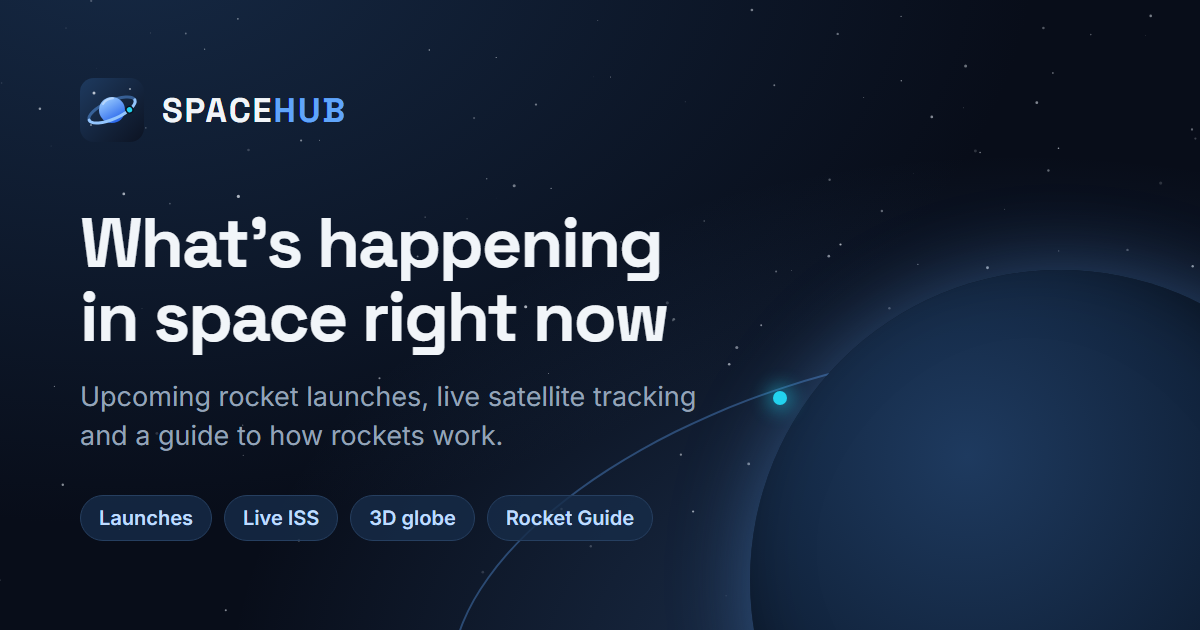
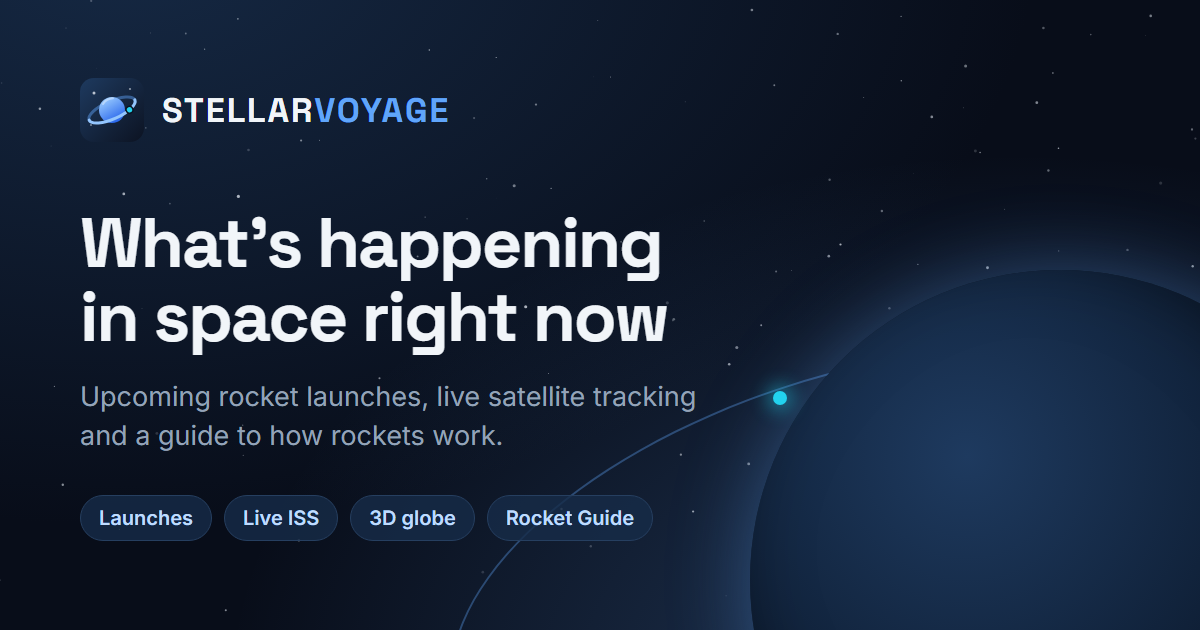
Rename SpaceHub to StellarVoyage
- New name everywhere: sidebar and phone bar (STELLAR + blue VOYAGE),
  footers, page titles, meta and share tags, app manifest, calendar
  events, README and CLAUDE.md
- Share image regenerated with the new name
- Site address in the share tags is now ansil28.github.io/StellarVoyage
- Saved data moves from the old "spacehub-" keys to "stellarvoyage-",
  and the service worker deletes the old caches
- Smaller brand text (and the hide-sidebar arrow moved down) so the
  longer name fits the sidebar

Changed region(s): [[0.1542, 0.1508, 0.37, 0.2111]]

diff --git a/app.js b/app.js
@@ -31,8 +31,26 @@ let countdownInterval = null;
 const API_URL =
   "https://ll.thespacedevs.com/2.3.0/launches/upcoming/?limit=50";
 
+// The site used to be called SpaceHub: move anything saved under the
+// old names to the new ones, so visitors keep their saved data
+try {
+  for (const key of Object.keys(localStorage)) {
+    if (key.startsWith("spacehub-")) {
+      const newKey = key.replace(/^spacehub-/, "stellarvoyage-");
+
+      if (localStorage.getItem(newKey) === null) {
+        localStorage.setItem(newKey, localStorage.getItem(key));
+      }
+
+      localStorage.removeItem(key);
+    }
+  }
+} catch {
+  // Storage may be blocked; nothing to move
+}
+
 // The free API allows about 15 requests per hour, so responses are cached
-const CACHE_KEY = "spacehub-launches-cache";
+const CACHE_KEY = "stellarvoyage-launches-cache";
 const CACHE_DURATION_MS = 15 * 60 * 1000;
 
 // COUNTDOWN
@@ -149,7 +167,7 @@ document.addEventListener("keydown", (event) => {
 const appLayout = document.querySelector(".app-layout");
 const sidebarToggle = document.querySelector("#sidebar-toggle");
 const mainContent = document.querySelector(".main-content");
-const SIDEBAR_STORAGE_KEY = "spacehub-sidebar-collapsed";
+const SIDEBAR_STORAGE_KEY = "stellarvoyage-sidebar-collapsed";
 
 function setSidebarCollapsed(isCollapsed, save = true) {
   appLayout.classList.toggle("sidebar-collapsed", isCollapsed);
@@ -210,19 +228,19 @@ function handleRoute() {
   if (view === "intelligence") {
     showView("intelligence");
     openSpaceIntelligence();
-    document.title = "Space Intelligence · SpaceHub";
+    document.title = "Space Intelligence · StellarVoyage";
     return;
   }
 
   if (view === "launches") {
     showView("launches");
-    document.title = "Launches · SpaceHub";
+    document.title = "Launches · StellarVoyage";
     return;
   }
 
   // Empty, #home or unknown addresses open the Overview
   showView("overview");
-  document.title = "SpaceHub";
+  document.title = "StellarVoyage";
 }
 
 function showView(view) {
@@ -886,7 +904,7 @@ function getLaunchCalendarEvent(launch) {
     launch.launch_service_provider?.name &&
       `Provider: ${launch.launch_service_provider.name}`,
     launch.mission?.description,
-    "Launch times often change. Check SpaceHub for the latest schedule."
+    "Launch times often change. Check StellarVoyage for the latest schedule."
   ].filter(Boolean);
 
   return {
@@ -910,11 +928,11 @@ function buildLaunchCalendarFile(launch) {
   const lines = [
     "BEGIN:VCALENDAR",
     "VERSION:2.0",
-    "PRODID:-//SpaceHub//Launch Calendar//EN",
+    "PRODID:-//StellarVoyage//Launch Calendar//EN",
     "CALSCALE:GREGORIAN",
     "METHOD:PUBLISH",
     "BEGIN:VEVENT",
-    `UID:${launch.id || formatCalendarDate(start)}@spacehub`,
+    `UID:${launch.id || formatCalendarDate(start)}@stellarvoyage`,
     `DTSTAMP:${formatCalendarDate(new Date())}`,
     `DTSTART:${formatCalendarDate(start)}`,
     `DTEND:${formatCalendarDate(end)}`,
@@ -1112,7 +1130,7 @@ function showGuideTopic(topicKey) {
     guideContent.replaceChildren();
     guideContent.hidden = true;
     guideGrid.hidden = false;
-    document.title = "Rocket Guide · SpaceHub";
+    document.title = "Rocket Guide · StellarVoyage";
     return;
   }
 
@@ -1174,7 +1192,7 @@ function showGuideTopic(topicKey) {
   guideContent.replaceChildren(...article);
   guideGrid.hidden = true;
   guideContent.hidden = false;
-  document.title = `${topic.title} · SpaceHub`;
+  document.title = `${topic.title} · StellarVoyage`;
 
   window.scrollTo({ top: 0 });
 }
@@ -1795,7 +1813,7 @@ function parseTle(text) {
 }
 
 async function loadTle(noradId) {
-  const cacheKey = `spacehub-tle-${noradId}`;
+  const cacheKey = `stellarvoyage-tle-${noradId}`;
   let cache = null;
 
   try {

diff --git a/index.html b/index.html
@@ -4,7 +4,7 @@
 <head>
   <meta charset="UTF-8">
   <meta name="viewport" content="width=device-width, initial-scale=1.0">
-  <title>SpaceHub</title>
+  <title>StellarVoyage</title>
 
   <!-- Description, icons and link previews (WhatsApp, Discord, etc.) -->
   <meta
@@ -20,32 +20,32 @@
   <link rel="manifest" href="manifest.webmanifest">
   <meta name="mobile-web-app-capable" content="yes">
   <meta name="apple-mobile-web-app-capable" content="yes">
-  <meta name="apple-mobile-web-app-title" content="SpaceHub">
+  <meta name="apple-mobile-web-app-title" content="StellarVoyage">
   <meta name="apple-mobile-web-app-status-bar-style" content="black">
 
   <meta property="og:type" content="website">
-  <meta property="og:site_name" content="SpaceHub">
-  <meta property="og:title" content="SpaceHub — What's happening in space right now">
+  <meta property="og:site_name" content="StellarVoyage">
+  <meta property="og:title" content="StellarVoyage — What's happening in space right now">
   <meta
     property="og:description"
     content="Upcoming rocket launches, live satellite tracking on a 3D globe and a guide to how rockets work."
   >
-  <meta property="og:url" content="https://ansil28.github.io/SpaceHub/">
-  <meta property="og:image" content="https://ansil28.github.io/SpaceHub/assets/og-image.png">
+  <meta property="og:url" content="https://ansil28.github.io/StellarVoyage/">
+  <meta property="og:image" content="https://ansil28.github.io/StellarVoyage/assets/og-image.png">
   <meta property="og:image:width" content="1200">
   <meta property="og:image:height" content="630">
   <meta
     property="og:image:alt"
-    content="SpaceHub: upcoming rocket launches, live satellite tracking and a rocket guide"
+    content="StellarVoyage: upcoming rocket launches, live satellite tracking and a rocket guide"
   >
 
   <meta name="twitter:card" content="summary_large_image">
-  <meta name="twitter:title" content="SpaceHub — What's happening in space right now">
+  <meta name="twitter:title" content="StellarVoyage — What's happening in space right now">
   <meta
     name="twitter:description"
     content="Upcoming rocket launches, live satellite tracking on a 3D globe and a guide to how rockets work."
   >
-  <meta name="twitter:image" content="https://ansil28.github.io/SpaceHub/assets/og-image.png">
+  <meta name="twitter:image" content="https://ansil28.github.io/StellarVoyage/assets/og-image.png">
 
   <link
     rel="stylesheet"
@@ -88,7 +88,7 @@
           width="36"
           height="36"
         >
-        <span>SPACE<span class="brand-light">HUB</span></span>
+        <span>STELLAR<span class="brand-light">VOYAGE</span></span>
       </a>
 
       <!-- Hide / show the sidebar (only shown on larger screens) -->
@@ -282,7 +282,7 @@
         </section>
 
         <footer class="page-footer">
-          <span>SPACEHUB</span>
+          <span>STELLARVOYAGE</span>
           <span>Exploring beyond Earth.</span>
         </footer>
 
@@ -360,7 +360,7 @@
         </section>
 
         <footer class="page-footer">
-          <span>SPACEHUB</span>
+          <span>STELLARVOYAGE</span>
           <span>Exploring beyond Earth.</span>
         </footer>
 
@@ -493,7 +493,7 @@
         </section>
 
         <footer class="page-footer">
-          <span>SPACEHUB</span>
+          <span>STELLARVOYAGE</span>
           <span>Exploring beyond Earth.</span>
         </footer>
 
@@ -540,7 +540,7 @@
         </section>
 
         <footer class="page-footer">
-          <span>SPACEHUB</span>
+          <span>STELLARVOYAGE</span>
           <span>Exploring beyond Earth.</span>
         </footer>
 

diff --git a/sw.js b/sw.js
@@ -1,4 +1,4 @@
-// SPACEHUB SERVICE WORKER
+// STELLARVOYAGE SERVICE WORKER
 // Lets the site open without internet once it has been visited.
 //
 // - The site's own files: network first, so new versions show up
@@ -11,8 +11,8 @@
 // If you add a new file to the site, add it to APP_FILES too.
 
 const CACHE_VERSION = "v1";
-const APP_CACHE = `spacehub-app-${CACHE_VERSION}`;
-const LIBRARY_CACHE = `spacehub-libraries-${CACHE_VERSION}`;
+const APP_CACHE = `stellarvoyage-app-${CACHE_VERSION}`;
+const LIBRARY_CACHE = `stellarvoyage-libraries-${CACHE_VERSION}`;
 
 const APP_FILES = [
   "./",
@@ -50,7 +50,12 @@ self.addEventListener("activate", (event) => {
     caches.keys()
       .then((keys) => Promise.all(
         keys
-          .filter((key) => key.startsWith("spacehub-") && key !== APP_CACHE && key !== LIBRARY_CACHE)
+          // Also removes caches from when the site was called SpaceHub
+          .filter((key) =>
+            (key.startsWith("stellarvoyage-") || key.startsWith("spacehub-")) &&
+            key !== APP_CACHE &&
+            key !== LIBRARY_CACHE
+          )
           .map((key) => caches.delete(key))
       ))
       .then(() => self.clients.claim())

diff --git a/style.css b/style.css
@@ -63,9 +63,9 @@ button {
   margin: 0 0 48px 5px;
   color: var(--text);
   font-family: 'Space Grotesk', sans-serif;
-  font-size: 19px;
+  font-size: 16px;
   font-weight: 700;
-  letter-spacing: 1px;
+  letter-spacing: 0.5px;
   text-decoration: none;
 }
 
@@ -133,7 +133,8 @@ button {
 /* Hide / show sidebar button, on the sidebar's right edge */
 .sidebar-toggle {
   position: absolute;
-  top: 33px;
+  /* Level with the "WORKSPACE" label, so the logo row stays free */
+  top: 106px;
   right: -15px;
   display: grid;
   place-items: center;
@@ -427,6 +428,18 @@ button {
   .main-content {
     margin-left: 205px;
     padding: 35px 25px 22px;
+  }
+
+  /* Smaller logo and name so "STELLARVOYAGE" fits the narrower sidebar */
+  .brand {
+    gap: 9px;
+    font-size: 14px;
+    letter-spacing: 0;
+  }
+
+  .brand-icon {
+    width: 32px;
+    height: 32px;
   }
 }
 
@@ -1642,6 +1655,14 @@ button {
 
   .brand {
     margin: 0;
+    gap: 11px;
+    font-size: 18px;
+    letter-spacing: 0.5px;
+  }
+
+  .brand-icon {
+    width: 36px;
+    height: 36px;
   }
 
   .sidebar-label,

diff --git a/CLAUDE.md b/CLAUDE.md
@@ -1,4 +1,4 @@
-# SpaceHub
+# StellarVoyage
 
 Dashboard de exploração espacial em HTML, CSS e JavaScript puro (sem build, sem frameworks). Abre-se diretamente o `index.html` no browser.
 
@@ -26,7 +26,7 @@ sw.js        Service worker: guarda o site para abrir sem internet (ficheiros do
 
 **App instalável (PWA):** ao acrescentar um ficheiro novo ao site, juntá-lo à lista `APP_FILES` em `sw.js`, senão não fica disponível offline. O service worker só funciona num endereço `http(s)`, não ao abrir o `index.html` diretamente.
 
-O site está publicado em https://ansil28.github.io/SpaceHub/ (GitHub Pages). As etiquetas `og:` e `twitter:` no `<head>` usam este endereço completo.
+O site está publicado em https://ansil28.github.io/StellarVoyage/ (GitHub Pages). As etiquetas `og:` e `twitter:` no `<head>` usam este endereço completo.
 
 Dependências externas (via CDN, carregadas no `<head>` do `index.html`): CesiumJS 1.146, satellite.js 6.0.1, Google Fonts (Inter e Space Grotesk).
 

diff --git a/README.md b/README.md
@@ -1,4 +1,4 @@
-# SpaceHub
+# StellarVoyage
 Space web platform with upcoming rocket launches, live countdowns, a CesiumJS 3D globe with ISS tracking, and a Rocket Guide. Built with HTML, CSS and JavaScript. 
 
 Just for fun and personal use.
